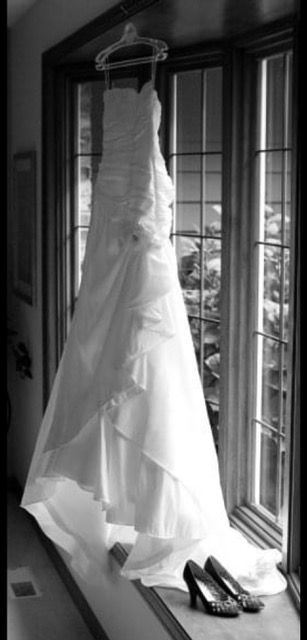
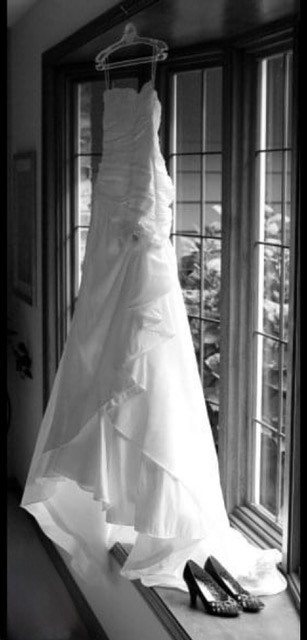
edited vents out of photos

Changed region(s): [[0.0, 0.875, 0.1466, 1.0], [0.2345, 0.9688, 0.2932, 1.0]]

diff --git a/styles/styles.css b/styles/styles.css
@@ -61,6 +61,9 @@ h3 {
   margin-left: -0.5rem;
   margin-right: -0.4rem;
 }
+.dropcap {
+  font-family
+}
 .photography {
   color: #42517a;
   font-weight: 700;
@@ -143,15 +146,15 @@ nav a:hover {
   grid-row: span 1;
 }
 .item.horizontal img {
-  height: 100%;
   width: 100%;
+  max-width: 100%;
 }
 .item.vertical {
   grid-row: span 2;
 }
 .item.vertical img {
   object-fit: cover;
-  height: 100%;
+  /* height: 100%; */
   width: 100%;
 }
 
@@ -249,7 +252,7 @@ img.about-me-photo {
 }
 .yellow-umbrella-flying {
   grid-column: 3;
-  grid-row: 2;
+  grid-row: 1;
 }
 
 /* .about-section {
@@ -297,24 +300,26 @@ img {
 }
 .creative-text {
   margin-top: 0;
-  grid-column: span 3;
+  grid-column: 2;
   display: flex;
-  align-items: center; 
-  justify-content: center;
-  text-align: left;
+  /* place-items: center; */
+  /* align-items: center; 
+  justify-content: center; */
+  text-align: center;
   color: #000;
 }
-.yellow-umbrella-dancing {
-  grid-column: 1;
-  grid-row: 2;
-}
 .yellow-umbrella-holding-on {
+  grid-column: 1;
+  grid-row: 1;
+}
+
+.yellow-umbrella-dancing {
   grid-column: 2;
   grid-row: 2;
 }
-.yellow-umbrella-letting-go {
+.yellow-umbrella-flying {
   grid-column: 3;
-  grid-row: 2;
+  grid-row: ;
 }
 
 /* About-Moments section  */
@@ -323,7 +328,7 @@ img {
   grid-template-columns: repeat(3, 1fr);
   grid-auto-rows: auto;
   gap: 1rem;
-  padding: 6rem;
+  padding: 3rem;
   align-items: center;
   background: #fff;
   color: #000;

diff --git a/about-services-contact.html b/about-services-contact.html
@@ -45,8 +45,8 @@
               Meet<br />
               Kimberly
             </h2>
-            <p>
-              As a photographer and graphic artist, I’ve always loved art. My
+            <p><span class="dropcap">
+              A</span>s a photographer and graphic artist, I’ve always loved art. My
               first passion was drawing—capturing the gaze in people’s eyes as
               they looked at something beautiful, the relaxed placement of their
               hands, and the subtle curve of their mouths when someone they
@@ -62,7 +62,7 @@
               alt="Photographer portrait"
               class="about-me-photo"
             />
-            <p class="wedding-text">
+            <p class="wedding-text" >
               I began photographing brides because I admire the timeless
               black-and-white family portraits. I love capturing the beauty and
               significance of those moments, while creating a visual stories,
@@ -114,7 +114,7 @@
       <div class="spacer-yellow-umbrella"> </div>
 
         <div class="about-moments-section">
-          <p>
+          <p class="has-dropcap">
             Each photograph is a window, revealing a unique essence, a fleeting
             expression, or a connection. It’s a moment preserved, forever
             timeless.
